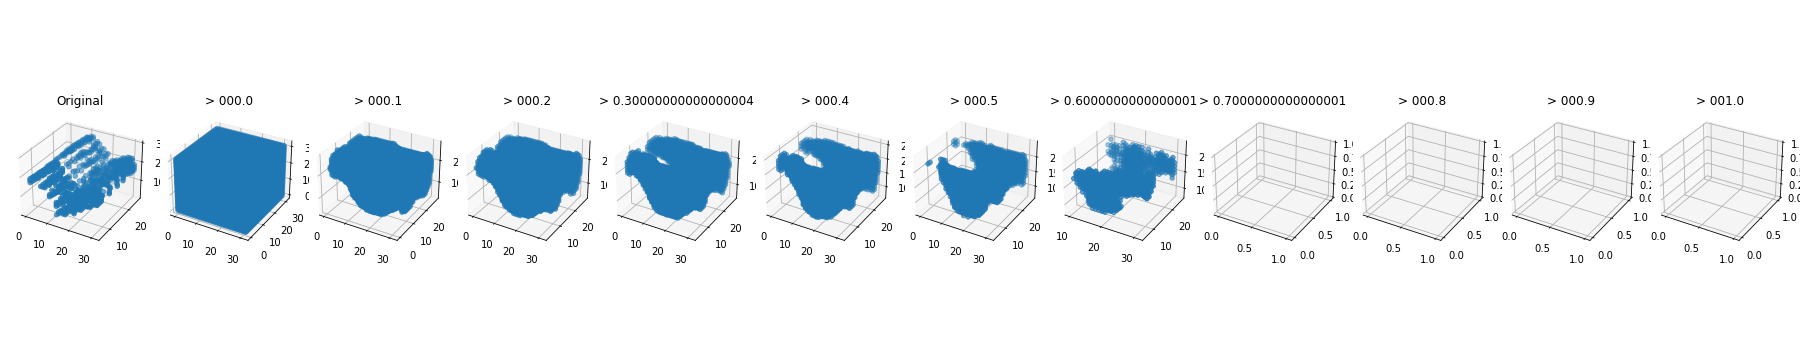
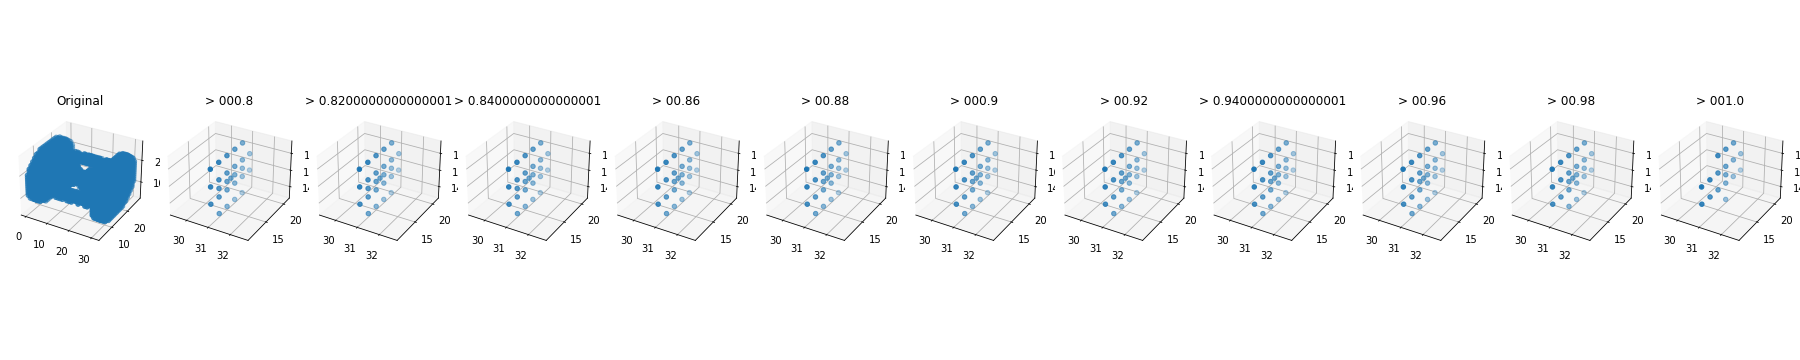
Fixed the clean up

diff --git a/3d_autoencoder_cleanup.py b/3d_autoencoder_cleanup.py
@@ -2,12 +2,15 @@
 # https://github.com/AnTao97/PointCloudDatasets/blob/master/dataset.py
 # %%
 from datetime import datetime
+from enum import auto
+import functools
 import io
 from pyntcloud.structures.voxelgrid import VoxelGrid
 import tensorflow as tf
 import pickle
 import pyvista as pv
 from pyntcloud import PyntCloud
+from tensorflow.python.keras.engine.base_layer import Layer
 from tqdm import tqdm
 import pandas as pd
 import glob
@@ -25,6 +28,8 @@ import pathlib
 from matplotlib.backends.backend_agg import FigureCanvasAgg
 
 gpus = tf.config.experimental.list_physical_devices('GPU')
+# tf.config.run_functions_eagerly(True)
+
 if gpus:
     try:
         for gpu in gpus:
@@ -34,6 +39,10 @@ if gpus:
 
 
 # %%
+def compose(f, g):
+    return lambda arg: f(g(arg))
+
+
 def retrieve_voxel_data(cloud, n=8):
     voxelgrid_id = cloud.add_structure("voxelgrid", n_x=n, n_y=n, n_z=n)
     voxelgrid = cloud.structures[voxelgrid_id]
@@ -83,24 +92,10 @@ def generate_img_of_decodings_expanded(encodings, decodings, thresholds=[.9, .95
     return fig
 
 
-# def plot_pointcound(pynt_cloud_object):
-#     example_cloud = pynt_cloud_object
-#     example_voxelgrid_id = example_cloud.add_structure("voxelgrid", n_x=32, n_y=32, n_z=32)
-#     example_voxelgrid = example_cloud.structures[example_voxelgrid_id]
-#     return example_voxelgrid.plot(d=3, mode="binary", cmap="hsv", width=400, height=400)
-
-
 def plot_pointcound(pynt_cloud_object, n=32):
     vol, example_voxelgrid = retrieve_voxel_data(pynt_cloud_object, n)
     return example_voxelgrid.plot(d=3, mode="binary", cmap="hsv", width=400, height=400)
 
-
-# test_sample = np.array(random.sample(list(x_test_mod), 100))
-# val_true = test_sample
-# val_predict = np.asarray(autoencoder.predict(test_sample))
-# fig = generate_img_of_decodings_expanded(val_true, val_predict)
-
-# plot_pointcound(PyntCloud.from_file("data/airplane_0001.ply"))
 
 # %%
 path_to_dataset = pathlib.Path("data/dataset.pkl")
@@ -135,93 +130,142 @@ if not path_to_voxel_matrix.exists():
     np.savez_compressed(path_to_voxel_matrix, data=data)
 data_shape = data.shape[1:]
 f"Loaded voxel data for {num_meshes} meshes"
-# %%
-# voxel_data_collected[2][1].plot(d=3, mode="density", width=400, height=400)
+
 # %%
 cut_point = .1
 x_train, x_test = train_test_split(data.astype(np.float), shuffle=True, test_size=.1)
 f"Training: {x_train.shape} | Test: {x_test.shape}"
 
 # %%
+# https://stackoverflow.com/a/58526969/4162265
+# https://www.tensorflow.org/guide/keras/custom_layers_and_models#putting_it_all_together_an_end-to-end_example
+tf.config.run_functions_eagerly(True)
 
 
-def EncoderUnit(e, num_filters):
-    e = layers.Conv3D(num_filters, 3, activation='elu', strides=2, padding='same', kernel_regularizer=reg.L1L2(.1, .1))(e)
-    e = layers.Dropout(.5)(e)
-    e = layers.BatchNormalization()(e)
-    return e
+class EncoderUnit(Layer):
+    def __init__(self, num_filters, name="encoder_unit", **kwargs) -> None:
+        super(EncoderUnit, self).__init__(name=name, **kwargs)
+        self.conv = layers.Conv3D(num_filters, 3, activation='elu', strides=2, padding='same', kernel_regularizer=reg.L1L2(.1, .1))
+        self.drop = layers.Dropout(.5)
+        self.norm = layers.BatchNormalization()
+
+    def call(self, inputs, **kwargs):
+        x = self.conv(inputs)
+        x = self.drop(x)
+        x = self.norm(x)
+        return x
 
 
-def DecoderUnit(d, num_filters):
-    d = layers.Conv3DTranspose(num_filters, 3, activation="elu", strides=2, padding="same", kernel_regularizer=reg.L1L2(.1, .1))(d)
-    d = layers.Dropout(.5)(d)
-    d = layers.BatchNormalization()(d)
-    return d
+class DecoderUnit(Layer):
+    def __init__(self, num_filters, name="encoder_unit", **kwargs) -> None:
+        super(DecoderUnit, self).__init__(name=name, **kwargs)
+        self.conv = layers.Conv3DTranspose(num_filters, 3, activation="elu", strides=2, padding="same", kernel_regularizer=reg.L1L2(.1, .1))
+        self.drop = layers.Dropout(.5)
+        self.norm = layers.BatchNormalization()
+
+    def call(self, inputs, **kwargs):
+        x = self.conv(inputs)
+        x = self.drop(x)
+        x = self.norm(x)
+        return x
 
 
-def Encoder(data_shape, output_dim=8):
-    encoder_inputs = tf.keras.Input(shape=data_shape)
-    x = encoder_inputs
-    x = EncoderUnit(x, 16)
-    x = EncoderUnit(x, 32)
-    x = EncoderUnit(x, 48)
-    x = EncoderUnit(x, 64)
-    unflattened_shape = list(x.shape[1:])
-    x = layers.Flatten()(x)
-    flattened_shape = list(x.shape[1:])[0]
-    # e = layers.Dense(8, activation="elu")(e)
-    z = layers.Dense(output_dim, kernel_regularizer=reg.L1L2(.1, .1))(x)
-    # z = layers.Dropout(.5)(z)
-    print("8==============D")
-    print(output_dim)
-    return Model(encoder_inputs, z), [output_dim, flattened_shape, unflattened_shape]
+class Encoder(Model):
+    def __init__(self, data_shape, output_dim=8, EncoderUnit=EncoderUnit, name="encoder", **kwargs):
+        super(Encoder, self).__init__(name=name, **kwargs)
+        self.data_shape = data_shape
+        self.output_dim = output_dim
+        self.elayers = [
+            EncoderUnit(16),
+            EncoderUnit(32),
+            EncoderUnit(48),
+            EncoderUnit(64),
+        ]
+        self.sampler = Sampling(self.output_dim)
+
+    def call(self, inputs, **kwargs):
+        x = inputs
+        for layer in self.elayers:
+            x = layer(x)
+        self.bridging_shape = list(x.shape[1:])
+        z = self.sampler(x)
+        return z, self.bridging_shape
 
 
-def Decoder(bridging_shapes):
-    print(bridging_shapes)
-    z = layers.Input(shape=(bridging_shapes[0], ))  # adapt this if using `channels_first` image data format
+class Sampling(Layer):
+    """Uses (z_mean, z_log_var) to sample z, the vector encoding a digit."""
+    def __init__(self, output_dim, name="Sampler", **kwargs):
+        super(Sampling, self).__init__(name=name, **kwargs)
+        self.output_dim = output_dim
+        self.flatten = layers.Flatten()
+        self.sample = layers.Dense(self.output_dim, kernel_regularizer=reg.L1L2(.1, .1))
 
-    d = layers.Dense(bridging_shapes[1], kernel_regularizer=reg.L1L2(.1, .1))(z)
-    # d = layers.Dropout(.5)(d)
-    d = layers.Reshape(bridging_shapes[2])(d)
-    d = DecoderUnit(d, 64)
-    d = DecoderUnit(d, 48)
-    d = DecoderUnit(d, 32)
-    d = DecoderUnit(d, 16)
-    # d = layers.Conv3DTranspose(1, 3, activation="elu", strides=2, padding="same")(d)
-    decoder_outputs = layers.Conv3DTranspose(1, 3, activation='sigmoid', strides=1, padding="same")(d)
-    # decoder_outputs = tf.pow(decoder_outputs, 3)
-
-    return Model(z, decoder_outputs)
+    def call(self, inputs):
+        x = self.flatten(inputs)
+        z = self.sample(x)
+        return z
 
 
-def output_manipulation(x):
-    return tf.where(tf.less_equal(x, .5), .0, x)
+class Decoder(Model):
+    def __init__(self, original_shape, bridging_shape, DecoderUnit=DecoderUnit, name="decoder", **kwargs):
+        super(Decoder, self).__init__(name=name, **kwargs)
+        self.original_shape = original_shape
+        self.bridging_shape = bridging_shape
+        self.receiver = layers.Dense(np.prod(bridging_shape), kernel_regularizer=reg.L1L2(.1, .1))
+        self.unflattener = layers.Reshape(bridging_shape)
+        self.dlayers = [
+            DecoderUnit(64),
+            DecoderUnit(48),
+            DecoderUnit(32),
+            DecoderUnit(16),
+        ]
+        self.final_decoding = layers.Conv3DTranspose(1, 3, activation='sigmoid', strides=1, padding="same")
+
+        # self.run_layers = functools.reduce(lambda x, y: y(x), self.layers)
+
+    def call(self, inputs, **kwargs):
+        x = self.receiver(inputs)
+        x = self.unflattener(x)
+        for layer in self.dlayers:
+            x = layer(x)
+        decoder_outputs = self.final_decoding(x)
+        return decoder_outputs
 
 
-def generate_loss_function(penalty=.5):
-    assert penalty >= 0 and penalty <= 1, "Choose value between 0 and 1"
-    penalty = tf.constant(penalty, dtype=tf.float32)
+class AutoEncoder(Model):
+    def __init__(self, data_shape, output_dim=300, verbose=False, name="autoencoder", **kwargs):
+        super(AutoEncoder, self).__init__(name=name, **kwargs)
+        self.original_shape = data_shape
+        self.in_shape = (None, ) + self.original_shape
+        self.output_dim = output_dim
+        self.encoder = Encoder(self.original_shape, self.output_dim)
+        self.encoder.build(self.in_shape)
+        self.decoder = Decoder(self.original_shape, self.encoder.bridging_shape)
 
-    def loss_function(y, y_pred):
-        clipped_y_pred = y_pred
-        clipped_y_pred = tf.keras.backend.clip(y_pred, 0.1, 0.99)
-        binary_cross_entropy = -y * penalty * tf.math.log(clipped_y_pred) + 2 * (1 - y) * (1 - penalty) * tf.math.log(1 - clipped_y_pred)
-        loss = tf.reduce_mean(binary_cross_entropy)
-        return loss
 
-    return loss_function
+    def call(self, inputs, **kwargs):
+        x = layers.InputLayer(self.original_shape)(inputs)
+        z, bridging_shape = self.encoder(x)
+        x = layers.InputLayer(self.original_shape)(z)
+        decodings = self.decoder(x, bridging_shape=bridging_shape)
+        return decodings
+
+    def summary(self, line_length=None, positions=None, print_fn=None):
+        self.build((None, ) + self.original_shape)
+        self.encoder.summary(line_length=line_length, positions=positions, print_fn=print_fn)
+        self.decoder.summary(line_length=line_length, positions=positions, print_fn=print_fn)
+        return super().summary(line_length=line_length, positions=positions, print_fn=print_fn)
 
 
 class WeightedBinaryCrossEntropy(tf.keras.losses.Loss):
     # https://stackoverflow.com/questions/61799546/how-to-custom-losses-by-subclass-tf-keras-losses-loss-class-in-tensorflow2-x
     """
     Args:
-      pos_weight: Scalar to affect the positive labels of the loss function.
-      weight: Scalar to affect the entirety of the loss function.
-      from_logits: Whether to compute loss from logits or the probability.
-      reduction: Type of tf.keras.losses.Reduction to apply to loss.
-      name: Name of the loss function.
+    pos_weight: Scalar to affect the positive labels of the loss function.
+    weight: Scalar to affect the entirety of the loss function.
+    from_logits: Whether to compute loss from logits or the probability.
+    reduction: Type of tf.keras.losses.Reduction to apply to loss.
+    name: Name of the loss function.
     """
     def __init__(self, penalty, reduction=tf.keras.losses.Reduction.AUTO, name='weighted_binary_crossentropy'):
         super().__init__(reduction=reduction, name=name)
@@ -232,9 +276,6 @@ class WeightedBinaryCrossEntropy(tf.keras.losses.Loss):
 
     @staticmethod
     def wbce(y_true, y_pred, penalty):
-        # clipped_y_pred = tf.keras.backend.clip(y_pred, 0.01, 0.99)
-        # binary_cross_entropy = -y_true * penalty * tf.math.log(clipped_y_pred) + 2 * (1 - y_true) * (1 - penalty) * tf.math.log(1 - clipped_y_pred)
-        # binary_cross_entropy = -y_true * penalty * tf.math.log(clipped_y_pred) + (1 - y_true) * (1 - penalty) * tf.math.log(1 - clipped_y_pred)
         penalty *= 100
         clipped_y_pred = WeightedBinaryCrossEntropy.clip_pred(y_pred, 1e-7, 1.0 - 1e-7)
         binary_cross_entropy = -(penalty * y_true * tf.math.log(clipped_y_pred) + (100 - penalty) * (1.0 - y_true) * tf.math.log(1.0 - clipped_y_pred)) / 100.0
@@ -253,27 +294,22 @@ def _rebase(x1, x2, min_val, max_val):
     return x1, x2
 
 
-x = layers.Input(shape=data_shape)
-# x = (x * tf.constant(6.0)) - tf.constant(1.0)
-encoder, bridging_shapes = Encoder(data_shape, 300)
-encoder.summary()
-decoder = Decoder(bridging_shapes)
-decoder.summary()
-
-autoencoder = Model(x, decoder(encoder(x)))
-autoencoder.summary()
-# %%
-penalty = .95
+# if verbose > 0:
+penalty = .90
 learning_rate = 0.01
-comment = "serious run"
+comment = "refactored run"
 lbound, ubound = -1, 2
-batch_size = 4
+batch_size = 5
+output_dim = 300
 
-loss_fn = generate_loss_function(penalty)
+autoencoder = AutoEncoder(data_shape=data_shape, output_dim=output_dim, verbose=2)
 loss_fn = WeightedBinaryCrossEntropy(penalty=penalty)
 opt_cl = opt.SGD(learning_rate=learning_rate, nesterov=True, momentum=.9)
 opt_cl = opt.Adam(learning_rate=learning_rate)
+
 autoencoder.compile(optimizer=opt_cl, loss=loss_fn)
+autoencoder.summary()
+# %%
 x_train_mod, y_train_mod = _rebase(x_train, x_train, 0, 1)
 x_test_mod, y_test_mod = _rebase(x_test, x_test, 0, 1)
 x_train_mod, y_train_mod = _rebase(x_train, x_train, lbound, ubound)
@@ -283,7 +319,7 @@ x_test_mod, y_test_mod = _rebase(x_test, x_test, 0, 1)
 
 
 def construct_log_dir(elements=[]):
-    log_dir = f"logs/{datetime.now().strftime('%H%M%S')}/" + " - ".join(elements)
+    log_dir = f"logs/{datetime.now().strftime('%m%d%H%M%S')}/" + " - ".join(elements)
     return log_dir
 
 
@@ -344,7 +380,7 @@ class CustomCallback(tf.keras.callbacks.Callback):
         # precision = 3
         # floored_max = my_floor(max_pred, precision)
         # thresh = sorted(floored_max + np.linspace(0, 1, 11) / 10**precision)
-        thresh = np.linspace(0, 1, 11)
+        thresh = np.linspace(0.8, 1, 11)
         fig = generate_img_of_decodings_expanded(val_true, val_predict, thresh)
         fig.tight_layout()
         fig.savefig('example.png')  # save the figure to file
@@ -399,7 +435,7 @@ if mpath.exists():
 
 mpath = pathlib.Path("models/3d_autoencoder.h5")
 if mpath.exists():
-    autoencoder = tf.keras.models.load_model(mpath, compile=False, custom_objects={'WeightedBinaryCrossEntropy': WeightedBinaryCrossEntropy(penalty), 'penalty':penalty})
+    autoencoder = tf.keras.models.load_model(mpath, compile=False, custom_objects={'WeightedBinaryCrossEntropy': WeightedBinaryCrossEntropy(penalty), 'penalty': penalty})
 
 # %%
 
@@ -412,4 +448,3 @@ decodings = decoder.predict(z).reshape(test_sample.shape[:-1])
 # %%
 generate_img_of_decodings(originals, decodings, thresh=.7)
 plt.show()
-
